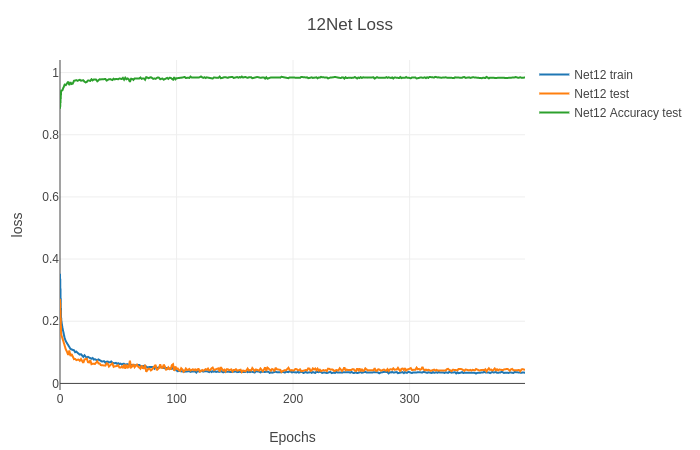
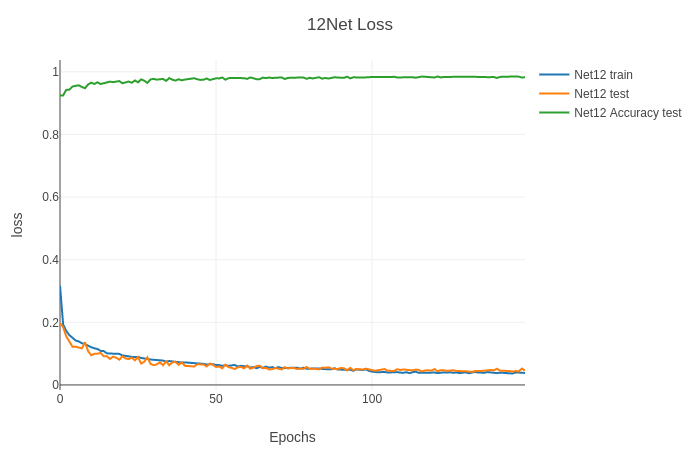
updates to results and README

Changed region(s): [[0.06, 0.6533, 0.75, 0.9022], [0.09, 0.1556, 0.75, 0.2178], [0.06, 0.56, 0.09, 0.5911]]

diff --git a/README.md b/README.md
@@ -13,25 +13,30 @@ To train a network:
     python3 q1.py --aflw-path <path to dir with aflw_12.t7> --voc-path <path to voc2007 root dir> [--cuda] [--visdom]
 
 
-train loss: 0.03446, test loss: 0.04352, test classification accuracy: 0.984
+Net12: epoch 149, train loss: 0.03827351704239845, test loss: 0.04607975110411644, test accuracy: 0.982606873428332
+threshold 0.11 to get recall >99% (0.9909576654336211). Resulting precision 0.9628594249201278
 
-net12_precision.png is the precision-recall curve
+
+net12_precision_recall.png is the precision-recall curve
 net12_loss.png is the training and test loss
 
 Note: 2d dropout was used with p=0.1 on the convolutional layer for regularization, and there is still evidence of overfitting in the final loss
-
-#TODO: explain threshold from recall-precision prints
 
 Question 2
 ----------
 
 To run on fddb, do as follows:
-    python3 q2.py --checkpoint <path to serialized model from q1 e.g. q1_checkpoint.pth.tar> --fddb-path <path to fddb> --output-path <dir to write fold-01-out.txt in>
+    python3 q2.py --checkpoint <path to serialized model from q1 e.g. q1_8db_dropout_150_epochs_threshold_0.11.pth.tar> --fddb-path <path to fddb> --output-path <dir to write fold-01-out.txt in> -t <threshold>
 
 then from fddb dir, ./evaluation/runEvaluate.pl <output-path>
 
-DiscROC_net12.png is the resulting graph (--threshold 0.2 --)
-NOTE: DiscROC curve for reporting all windows as matches for the set of scales 1.18**(-2k+1) for k in {1..10} returned poor results, implying the conversion to fddb matches is somehow flawed. The curve is attached as DistROC_dense_scan.png and shows only 93% recall for millions(!) of false positives.
+The graph with q1_8db_dropout_150_epochs_threshold_0.11.pth.tar shows that we get very high recall (>95%) with a great many false positives (~1k/image), so the threshold was adjusted to 0.25 to reduce the amount of windows to ~500/image, lowering recall to %92.8 on fddb.
+
+Attached are the discontinuous ROC graphs: 
+
+DiscROC_net12_threshold_0.11.png
+DiscROC_net12_threshold_0.25.png
+
 
 Question 3
 ----------
